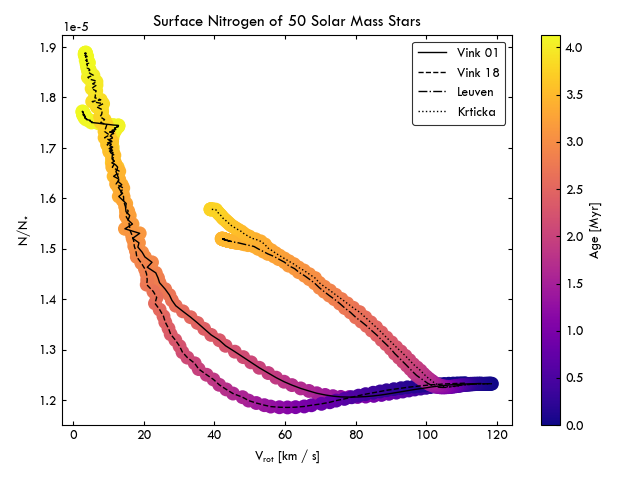
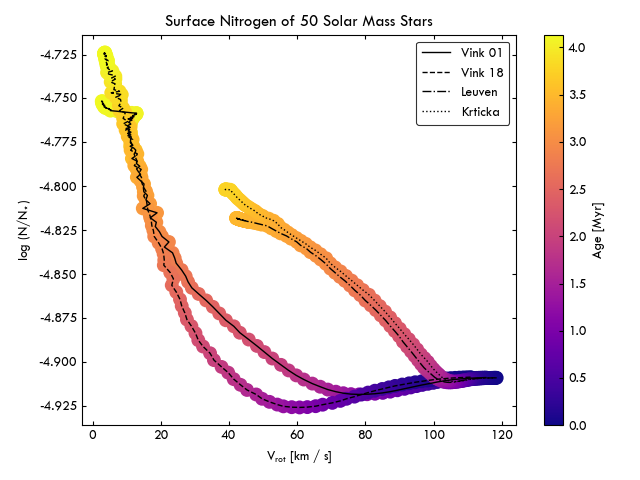
logscale

diff --git a/Code/Code/hunter.py b/Code/Code/hunter.py
@@ -96,10 +96,10 @@ def huntermass(model1, model2, model3, model4, typ, number):
     
     # plot line
     if typ == 'N':
-        ax.plot(model1.vrot[0:lim1], model1.nnit[0:lim1], lw = 1, color = 'black', linestyle = 'solid', label = 'Vink 01')
-        ax.plot(model2.vrot[0:lim2], model2.nnit[0:lim2], lw = 1, color = 'black', linestyle = 'dashed', label = 'Vink 18')
-        ax.plot(model3.vrot[0:lim3], model3.nnit[0:lim3], lw = 1, color = 'black', linestyle = 'dashdot', label = 'Leuven')
-        ax.plot(model4.vrot[0:lim4], model4.nnit[0:lim4], lw = 1, color = 'black', linestyle = 'dotted', label = 'Krticka')
+        ax.plot(model1.vrot[0:lim1], model1.lognnit[0:lim1], lw = 1, color = 'black', linestyle = 'solid', label = 'Vink 01')
+        ax.plot(model2.vrot[0:lim2], model2.lognnit[0:lim2], lw = 1, color = 'black', linestyle = 'dashed', label = 'Vink 18')
+        ax.plot(model3.vrot[0:lim3], model3.lognnit[0:lim3], lw = 1, color = 'black', linestyle = 'dashdot', label = 'Leuven')
+        ax.plot(model4.vrot[0:lim4], model4.lognnit[0:lim4], lw = 1, color = 'black', linestyle = 'dotted', label = 'Krticka')
         #ax.plot(model5.vrot[0:lim5], model5.nnit[0:lim5], lw = 1, color = 'black')
 
     if typ == 'NH':
@@ -111,10 +111,10 @@ def huntermass(model1, model2, model3, model4, typ, number):
 
     # plot colors
     if typ == 'N':
-        ims1 = ax.scatter(model1.vrot[0:lim1], model1.nnit[0:lim1], c= model1.age[0:lim1], marker='o', edgecolors='none', s=100, cmap=colormap, vmin = model1.get_min_bar(), vmax = model1.get_age(lim1))
-        ims2 = ax.scatter(model2.vrot[0:lim2], model2.nnit[0:lim2], c= model2.age[0:lim2], marker='o', edgecolors='none', s=100, cmap=colormap, vmin = model1.get_min_bar(), vmax = model1.get_age(lim1))       
-        ims3 = ax.scatter(model3.vrot[0:lim3], model3.nnit[0:lim3], c= model3.age[0:lim3], marker='o', edgecolors='none', s=100, cmap=colormap, vmin = model1.get_min_bar(), vmax = model1.get_age(lim1))
-        ims4 = ax.scatter(model4.vrot[0:lim4], model4.nnit[0:lim4], c= model4.age[0:lim4], marker='o', edgecolors='none', s=100, cmap=colormap, vmin = model1.get_min_bar(), vmax = model1.get_age(lim1))       
+        ims1 = ax.scatter(model1.vrot[0:lim1], model1.lognnit[0:lim1], c= model1.age[0:lim1], marker='o', edgecolors='none', s=100, cmap=colormap, vmin = model1.get_min_bar(), vmax = model1.get_age(lim1))
+        ims2 = ax.scatter(model2.vrot[0:lim2], model2.lognnit[0:lim2], c= model2.age[0:lim2], marker='o', edgecolors='none', s=100, cmap=colormap, vmin = model1.get_min_bar(), vmax = model1.get_age(lim1))       
+        ims3 = ax.scatter(model3.vrot[0:lim3], model3.lognnit[0:lim3], c= model3.age[0:lim3], marker='o', edgecolors='none', s=100, cmap=colormap, vmin = model1.get_min_bar(), vmax = model1.get_age(lim1))
+        ims4 = ax.scatter(model4.vrot[0:lim4], model4.lognnit[0:lim4], c= model4.age[0:lim4], marker='o', edgecolors='none', s=100, cmap=colormap, vmin = model1.get_min_bar(), vmax = model1.get_age(lim1))       
         #ims5 = ax.scatter(model5.vrot[0:lim5], model5.nnit[0:lim5], c= model5.age[0:lim5], marker='o', edgecolors='none', s=100, cmap=colormap, vmin = model1.get_min_bar(), vmax = model1.get_age(lim1))
         
     if typ == 'NH':
@@ -144,8 +144,8 @@ huntermass(vink01_50, vink18_50, leuven_50, krticka_50, 'N', '50')
 huntermass(vink01_60, vink18_60, leuven_60, krticka_60, 'N', '60')
 
 # N/H + 12
-huntermass(vink01_20, vink18_20, leuven_20, krticka_20, 'NH', '20')
-huntermass(vink01_30, vink18_30, leuven_30, krticka_30, 'NH', '30')
-huntermass(vink01_40, vink18_40, leuven_40, krticka_40, 'NH', '40')
-huntermass(vink01_50, vink18_50, leuven_50, krticka_50, 'NH', '50')
-huntermass(vink01_60, vink18_60, leuven_60, krticka_60, 'NH', '60')
+# huntermass(vink01_20, vink18_20, leuven_20, krticka_20, 'NH', '20')
+# huntermass(vink01_30, vink18_30, leuven_30, krticka_30, 'NH', '30')
+# huntermass(vink01_40, vink18_40, leuven_40, krticka_40, 'NH', '40')
+# huntermass(vink01_50, vink18_50, leuven_50, krticka_50, 'NH', '50')
+# huntermass(vink01_60, vink18_60, leuven_60, krticka_60, 'NH', '60')

diff --git a/Code/Code/plots.py b/Code/Code/plots.py
@@ -85,7 +85,7 @@ def hunter(mass):
     fig, ax = plt.subplots(1,1)
     
     ax.set_xlabel('V$_{\mathregular{rot}}$ [km / s]')
-    ax.set_ylabel('N/N$_{\star}$')
+    ax.set_ylabel('log (N/N$_{\star}$)')
     ax.set_title(f'Surface Nitrogen of {mass} Solar Mass Stars')
 
     return fig, ax, colormap
